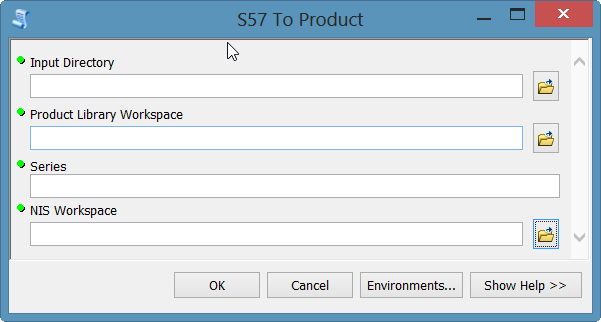
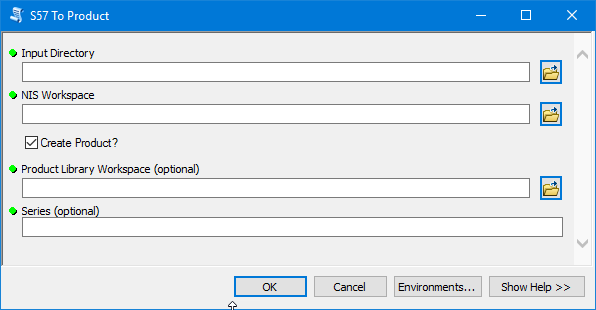
10.5.1 update
Update of the tools for ArcGIS for Maritime 10.5.1

Changed region(s): [[0.0, 0.0, 1.0, 1.0]]

diff --git a/S57 To Product/s57_to_product.py b/S57 To Product/s57_to_product.py
@@ -17,9 +17,10 @@ import arcpy, sys, os, traceback, re
 try:
     # Get user params
     fldr = arcpy.GetParameterAsText(0)
-    pl = arcpy.GetParameterAsText(1)
-    series = arcpy.GetParameterAsText(2) ## "Nautical::ENC::ENC"
-    target_wrkspc = arcpy.GetParameterAsText(3)
+    target_wrkspc = arcpy.GetParameterAsText(1)
+    boolCreateProduct = arcpy.GetParameter(2)
+    pl = arcpy.GetParameterAsText(3)
+    series = arcpy.GetParameterAsText(4) ## "Nautical::ENC::ENC"
 
     # Initialize list to store path to all base cells used to create products in PL
     base_cells = []
@@ -39,8 +40,8 @@ try:
                 if os.path.basename(root) != "0":
                     update_cells = []
                     for item in os.listdir(root):
-                        if not re.search(".000$", item) and re.search(".[0-9][0-9][0-9]$", item):
-                            update_cells.append(os.path.join(root, item)) 
+                        if not re.search(file[0:-4] + ".000$", item) and re.search(file[0:-4] + ".[0-9][0-9][0-9]$", item):
+                            update_cells.append(os.path.join(root, item))
                     update_cells.sort()
                     base_cell = os.path.join(root, file)
                     base_cells.append(base_cell)
@@ -69,7 +70,7 @@ try:
                             for item in os.listdir(root2):
                                 if not re.search(".000$", item) and re.search(".[0-9][0-9][0-9]$", item):
                                     update_cells.append((root2, item))
-                    sorted_list = sorted(update_cells, key=lambda cell: cell[1]) 
+                    sorted_list = sorted(update_cells, key=lambda cell: cell[1])
                     update_cells_sorted = []
                     for cell in sorted_list:
                         update_cells_sorted.append(os.path.join(cell[0], cell[1]))
@@ -86,19 +87,20 @@ try:
 
 
     # Create S-57 product for each base cell
-    arcpy.AddMessage("Creating products in Product Library:")
-    for enc in base_cells:
-        arcpy.AddMessage("\t" + enc)
-        try:
-            arcpy.CreateS57Product_nautical(in_s57_cell=enc, in_pl_workspace=pl, in_pl_series=series)
-        except:
-            msgs = arcpy.GetMessage(0)
-            msgs += arcpy.GetMessages(2)
-            arcpy.AddWarning(msgs)
+    if boolCreateProduct:
+        arcpy.AddMessage("Creating products in Product Library:")
+        for enc in base_cells:
+            arcpy.AddMessage("\t" + enc)
+            try:
+                arcpy.CreateS57Product_nautical(in_s57_cell=enc, in_pl_workspace=pl, in_pl_series=series)
+            except:
+                msgs = arcpy.GetMessage(0)
+                msgs += arcpy.GetMessages(2)
+                arcpy.AddWarning(msgs)
 
 
     # Set target workspace as output
-    arcpy.SetParameterAsText(4, target_wrkspc)
+    arcpy.SetParameterAsText(5, target_wrkspc)
 
 
 except arcpy.ExecuteError:

diff --git a/S57 To Product/README.md b/S57 To Product/README.md
@@ -27,9 +27,10 @@ Your NIS is now set at the Class level and any products.
 12. Double click **S57 To Product** to open the tool.  
 ![App](pic2.png)
 13. For **Input Directory**, browse to the directory that contains the ENC cells you want to use to define your products and populate your NIS.
-14. For the **Product Library Workspace**, browse to the location of your Product Library.
+14. For the **NIS Workspace**, browse to the location of your NIS. This could be a folder for a File GDB or a database connection for an enterprise GDB.
+15. If you only want to import the S-57 files, uncheck the **Create Product?** checkbox. If you want to create product definitions in the Product Library, leave the checkbox checked.
+16. For the **Product Library Workspace**, if you want to create product definitions, browse to the location of your Product Library.
 After you define the Product Library Workspace, the Series parameter will populate with a dropdown list of available Series in the Product Library.
 15. From the **Series** parameter dropdown, choose a Series to create the products under.
-16. For the **NIS Workspace**, browse to the location of your NIS.
 
 The products are created in the Product Library and the cells are imported into the NIS.

diff --git a/README.md b/README.md
@@ -47,3 +47,6 @@ See the License for the specific language governing permissions and
 limitations under the License.
 
 A copy of the license is available in the repository's [license.txt]( https://raw.github.com/Esri/quickstart-map-js/master/license.txt) file.
+
+[](Esri Tags: ArcGIS Web Mapping QuickStart)
+[](Esri Language: JavaScript)
